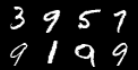
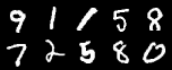
Refactor code structure for improved readability and maintainability

diff --git a/train.py b/train.py
@@ -97,9 +97,9 @@ def parse_args():
     parser.add_argument("--save_every_epoch", type=int, default=10)
     parser.add_argument("--augment", action="store_true", default=False)
     parser.add_argument("--patience", type=int, default=5)
-    parser.add_argument("--top_k_models", type=int, default=3)
-    parser.add_argument("--fid_epoch_calc", type=int, default=50)
-    parser.add_argument("--is_epoch_calc", type=int, default=50, help="Epoch interval to compute Inception Score")
+    parser.add_argument("--top_k_models", type=int, default=2)
+    parser.add_argument("--fid_epoch_calc", type=int, default=10)
+    parser.add_argument("--is_epoch_calc", type=int, default=10, help="Epoch interval to compute Inception Score")
     parser.add_argument("--fid_min_samples", type=int, default=2048, help="Minimum samples for FID calculation")
     parser.add_argument("--no_ema_validate", action="store_true", help="Disable EMA weights during validation")
     parser.add_argument("--use_weighted_snr", action="store_true", default=True, help="Use SNR-weighted loss during training")
@@ -107,6 +107,7 @@ def parse_args():
     parser.add_argument("--seed", type=int, default=42)  # added (used by set_global_seed)
     parser.add_argument("--disable_mlflow", action="store_true", help="Disable MLflow logging and system metrics")
     parser.add_argument("--fid_model_name", type=str, default=None, help="Optional name for best FID model file")
+    parser.add_argument("--label_to_sample", type=int, default=None, help="Specific label to sample during training (for conditional datasets)")
     return parser.parse_args()
 # ----------------------------------------------
 if __name__ == "__main__":
@@ -123,6 +124,7 @@ if __name__ == "__main__":
     FID_EPOCH_CALC = args.fid_epoch_calc
     IS_EPOCH_CALC = args.is_epoch_calc
     fid_model_name = args.fid_model_name
+    label_to_sample = args.label_to_sample
     figure_root = args.figure_root
     # Compose run-specific folder to avoid collisions (e.g., grid search)
     run_folder = f"{args.batch_size}{('_' + args.run_name) if args.run_name else ''}"
@@ -148,7 +150,7 @@ if __name__ == "__main__":
             if filename.endswith(".pth"):
                 path = os.path.join(model_dir, filename)
                 try:
-                    ckpt = torch.load(path, map_location=device)
+                    ckpt = torch.load(path, map_location=device, weights_only=False)
                     loss = ckpt.get("loss", None)
                     if loss is not None:
                         top_models.append((loss, path))
@@ -213,7 +215,7 @@ if __name__ == "__main__":
 
     if Checkpoint:
         ckpt_file = os.path.join(args.models_root, args.dataset, "checkpoints", run_folder, f"{args.model_name}.pth")
-        ckpt = torch.load(ckpt_file, map_location=device)
+        ckpt = torch.load(ckpt_file, map_location=device, weights_only=False)
         model.load_state_dict(ckpt["model_state_dict"])
         optimizer.load_state_dict(ckpt.get("optimizer_state_dict", {}))
         scaler.load_state_dict(ckpt.get("scaler_state_dict", {}))
@@ -225,7 +227,7 @@ if __name__ == "__main__":
         weights_file = os.path.join(args.models_root, f"{args.batch_size}", f"{model_name}.pth")
         if os.path.exists(weights_file):
             try:
-                model.load_state_dict(torch.load(weights_file, map_location=device))
+                model.load_state_dict(torch.load(weights_file, map_location=device, weights_only=False))
             except Exception:
                 # ignore if shape mismatch or not a state_dict
                 pass
@@ -459,9 +461,22 @@ if __name__ == "__main__":
                             # Remove any older checkpoints in the save directory that have a worse (higher) FID
                             if os.path.exists(best_fid_path) and os.path.getsize(best_fid_path) > 0:
                                 for fid_model_name in os.listdir(save_dir):
-                                    fid_score = torch.load(os.path.join(save_dir, fid_model_name), map_location="cpu").get("best_fid", None)
+                                    # Only consider PyTorch checkpoint files
+                                    if not fid_model_name.endswith(".pth"):
+                                        continue
+                                    ckpt_path = os.path.join(save_dir, fid_model_name)
+                                    try:
+                                        ckpt = torch.load(ckpt_path, map_location="cpu", weights_only=False)
+                                    except Exception:
+                                        # Skip files that are not valid pickled checkpoints
+                                        continue
+                                    fid_score = ckpt.get("best_fid", None)
                                     if isinstance(fid_score, (int, float)) and fid_score > best_fid:
-                                        os.remove(os.path.join(save_dir, fid_model_name))
+                                        try:
+                                            os.remove(ckpt_path)
+                                        except Exception:
+                                            # Ignore deletion errors
+                                            pass
                             if ema is not None:
                                 # optional: restore original weights after save
                                 pass
@@ -479,7 +494,8 @@ if __name__ == "__main__":
                         model.eval()
                         # Test reconstruction of specific digits
                         n_images = 16
-                        test_labels = torch.full((n_images,), 7, device=device)  # Test multiple 7s
+                        label = args.label_to_sample if hasattr(args, "label_to_sample") else 7
+                        test_labels = torch.full((n_images,), label, device=device)  # Test multiple 7s
                         ema.apply_shadow(model)
                         generated_images = sample_images(
                             model, 
@@ -497,7 +513,7 @@ if __name__ == "__main__":
                             generated_images = generated_images.cpu()
                     # save grid
                     os.makedirs(f"{figure_root}/{args.dataset}/samples/{run_folder}", exist_ok=True)
-                    sample_save_path = f"{figure_root}/{args.dataset}/samples/{run_folder}/digit_7_epoch_{current_epoch}.png"
+                    sample_save_path = f"{figure_root}/{args.dataset}/samples/{run_folder}/digit_{label}_epoch_{current_epoch}.png"
                     try:
                         torchvision.utils.save_image(
                             generated_images,
@@ -507,6 +523,8 @@ if __name__ == "__main__":
                         )
                     except Exception as e:
                         print(f"Failed to save generated samples grid: {e}")
+                    finally:
+                        print(f"Saved generated samples to {sample_save_path}")
         # -------------------------------------------------------------
                 # * ------------------ Compute and log metrics ------------------ *
                 

diff --git a/grid_search.py b/grid_search.py
@@ -53,7 +53,7 @@ def find_best_fid(models_dir: str) -> Tuple[Optional[float], Optional[str]]:
             continue
         fpath = os.path.join(models_dir, fname)
         try:
-            ckpt = torch.load(fpath, map_location='cpu')
+            ckpt = torch.load(fpath, map_location='cpu', weights_only=False)
         except Exception:
             continue
         fid = ckpt.get('best_fid')
@@ -61,6 +61,51 @@ def find_best_fid(models_dir: str) -> Tuple[Optional[float], Optional[str]]:
             if best_val is None or fid < best_val:
                 best_val, best_path = float(fid), fpath
     return best_val, best_path
+
+
+def discover_run_folders(models_root: str, dataset: str) -> List[str]:
+    base = os.path.join(models_root, dataset)
+    if not os.path.isdir(base):
+        return []
+    return [d for d in os.listdir(base) if os.path.isdir(os.path.join(base, d))]
+
+
+def parse_run_metadata(run_folder: str) -> Tuple[Optional[int], Optional[float], Optional[str]]:
+    # Expected format: "<bs>_<schedule>_lr<lr>_bs<bs>"
+    m = re.match(r"^(?P<bs>\d+)_?(?P<sched>[^_]+)?_lr(?P<lr>[^_]+)_bs(?P<bs2>\d+)$", run_folder)
+    if not m:
+        # Try simpler pattern: "<bs>_<rest>" then parse rest
+        m2 = re.match(r"^(?P<bs>\d+)_(?P<rest>.+)$", run_folder)
+        if m2:
+            bs = int(m2.group("bs"))
+            rest = m2.group("rest")
+            m3 = re.match(r"^(?P<sched>[^_]+)_lr(?P<lr>[^_]+)_bs(?P<bs2>\d+)$", rest)
+            if m3:
+                bs2 = int(m3.group("bs2"))
+                sched = m3.group("sched")
+                try:
+                    lr = float(m3.group("lr"))
+                except ValueError:
+                    lr = None
+                return (bs if bs == bs2 else bs2, lr, sched)
+        return None, None, None
+    try:
+        bs = int(m.group("bs"))
+    except Exception:
+        bs = None
+    try:
+        lr = float(m.group("lr"))
+    except Exception:
+        lr = None
+    sched = m.group("sched")
+    bs2 = m.group("bs2")
+    try:
+        bs2 = int(bs2)
+    except Exception:
+        bs2 = None
+    if bs is not None and bs2 is not None and bs != bs2:
+        bs = bs2
+    return bs, lr, sched
 
 
 def main():
@@ -77,6 +122,7 @@ def main():
     parser.add_argument("--python", type=str, default=None, help="path to python interpreter")
     parser.add_argument("--models_root", type=str, default="grid_search_results/models", help="Root directory to store and scan models")
     parser.add_argument("--scan_only", action="store_true", help="Only scan existing runs; do not train")
+    parser.add_argument("--auto_discover", action="store_true", help="Scan all run folders under models_root/dataset")
     args = parser.parse_args()
 
     batch_sizes = parse_list(args.batch_sizes, int)
@@ -85,9 +131,24 @@ def main():
 
     results = []
     
-    for bs, lr, sched in itertools.product(batch_sizes, lrs, schedules):
-        run_name = f"{sched}_lr{lr}_bs{bs}"
-        run_folder = f"{bs}_{run_name}"
+    # In auto-discover mode, ignore provided grids and scan all run folders
+    discovered = []
+    if args.scan_only and args.auto_discover:
+        discovered = discover_run_folders(args.models_root, args.dataset)
+
+    combos = []
+    if discovered:
+        for run_folder in discovered:
+            bs, lr, sched = parse_run_metadata(run_folder)
+            combos.append((bs, lr, sched, run_folder))
+    else:
+        for bs, lr, sched in itertools.product(batch_sizes, lrs, schedules):
+            run_name = f"{sched}_lr{lr}_bs{bs}"
+            run_folder = f"{bs}_{run_name}"
+            combos.append((bs, lr, sched, run_folder))
+
+    for bs, lr, sched, run_folder in combos:
+        run_name = f"{sched}_lr{lr}_bs{bs}" if (sched is not None and lr is not None and bs is not None) else run_folder
         # pass optional extra args
         extra = []
         if args.augment:

diff --git a/generate_from_text.py b/generate_from_text.py
@@ -1,7 +1,7 @@
 import argparse
 import torch
 import torchvision
-from diffusers import DDPMScheduler
+from diffusers import DDPMScheduler # type: ignore
 import ema
 from model import UNET, BasicUNet
 from utils import sample_images
